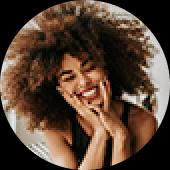
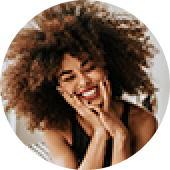
reviews

diff --git a/src/partials/reviews.html b/src/partials/reviews.html
@@ -1,5 +1,12 @@
 <!DOCTYPE html>
-
+<html lang="en">
+	<head>
+		<meta charset="UTF-8" />
+		<meta http-equiv="X-UA-Compatible" content="IE=edge" />
+		<meta name="viewport" content="width=device-width, initial-scale=1.0" />
+		<title>Document</title>
+	</head>
+	<body>
 		<section class="customer-reviews" id="about-us">
 			<div class="container">
 				<h2 class="hidden">Отзывы</h2>
@@ -11,12 +18,50 @@
 									./images/customer-reviews/customer-m-@1x.jpg 1x,
 									./images/customer-reviews/customer-m-@2x.jpg 2x
 								"
-								src="./images/customer-reviews/customer-m-@1x.jpg"
+								src="./images/customer-reviews/customer-m-@2x.jpg"
 								alt="Девушка-заказчик"
+								class="customer-reviews__img"
 							/>
+							<!-- <img
+								srcset="
+									./images/customer-reviews/customer-m-@1x.jpg 1x,
+									./images/customer-reviews/customer-m-@2x.jpg 2x
+								"
+								src="./images/customer-reviews/customer-m-@2x.jpg"
+								alt="Девушка-заказчик"
+								class="customer-reviews__img"
+							/>
+							<img
+								srcset="
+									./images/customer-reviews/customer-m-@1x.jpg 1x,
+									./images/customer-reviews/customer-m-@2x.jpg 2x
+								"
+								src="./images/customer-reviews/customer-m-@2x.jpg"
+								alt="Девушка-заказчик"
+								class="customer-reviews__img"
+							/> -->
+							<div class="customer-reviews__box">
+								<div class="customer-reviews__gradient">
+									<p class="customer-reviews__text">
+										Nullam viverra consectetuer. Quisque cursus et, porttitor risus. Aliquam sem. In hendrerit nulla
+										quam nunc, accumsan congue. Lorem ipsum primis in nibh vel risus.
+									</p>
+								</div>
+							</div>
+							<h3 class="customer-reviews__title">Emily, Los Angeles</h3>
 						</li>
 					</ul>
 				</div>
+				<div class="customer-review__dots">
+					<span class="dot">
+						<svg class="activedot">
+							<use href="/images/customer-reviews/activedot.svg#icon-activedot"></use>
+						</svg>
+					</span>
+					<span class="customer-review__dot dot"></span>
+					<span class="customer-review__dot dot"></span>
+				</div>
 			</div>
 		</section>
-
+	</body>
+</html>

diff --git a/src/sass/layouts/_reviews.scss b/src/sass/layouts/_reviews.scss
@@ -1,15 +1,113 @@
-.customer-reviews {
-	padding-top: 80px;
-	padding-bottom: 43px;
-}
-
 .customer-reviews__slider {
 	position: relative;
 	padding-bottom: 30px;
+
+	@media screen and (min-width: 768px) {
+		padding-bottom: 35px;
+	}
 }
 
 .customer-reviews__item {
 	display: flex;
 	flex-direction: column;
 	align-items: center;
+}
+
+.customer-reviews__img {
+	display: block;
+	width: 85px;
+	height: 85px;
+	margin-bottom: 30px;
+}
+
+.customer-reviews__box {
+	display: flex;
+	justify-content: center;
+	align-items: center;
+	width: 100%;
+	padding-top: 40px;
+	padding-bottom: 20px;
+	margin-bottom: 52px;
+	background-color: #fafafa;
+}
+
+.customer-reviews__gradient {
+	display: flex;
+	justify-content: center;
+	align-items: center;
+	width: 70%;
+	background-image: repeating-linear-gradient(#fafafa, #fafafa 29px, #e1e1e1 0, #e1e1e1 30px);
+}
+
+.customer-reviews__text {
+	display: block;
+	width: 90%;
+	font-size: 12px;
+	line-height: 2.58333;
+	text-align: center;
+	letter-spacing: 0.04em;
+	position: relative;
+	z-index: 2;
+
+	&:before {
+		content: "";
+		display: block;
+		width: 54px;
+		height: 40px;
+		background-image: url(/images/customer-reviews/quotes.png);
+		position: absolute;
+		z-index: -1;
+		top: -15px;
+		left: -10px;
+	}
+}
+
+.customer-reviews__title {
+	display: block;
+	font-size: 14px;
+	text-align: center;
+	position: relative;
+
+	&::before {
+		content: "";
+		display: block;
+		width: 32px;
+		height: 4px;
+		background-image: url(/images/customer-reviews/dots.png);
+		position: absolute;
+		top: -18px;
+		left: 40%;
+	}
+}
+
+.customer-review__dots {
+	display: flex;
+	align-items: center;
+	justify-content: center;
+}
+
+.dot:not(:last-child) {
+	margin-right: 18px;
+}
+
+.activedot {
+	display: block;
+	background-color: unset;
+	border-radius: unset;
+	background-repeat: no-repeat;
+	background-position: 50%;
+	background-size: cover;
+	width: 12.5px;
+	height: 12px;
+	&:hover,
+	&:focus {
+		transform: scale(1.5);
+	}
+}
+
+.customer-review__dot {
+	width: 12px;
+	height: 12px;
+	background-color: #d9d9d9;
+	border-radius: 50%;
 }
